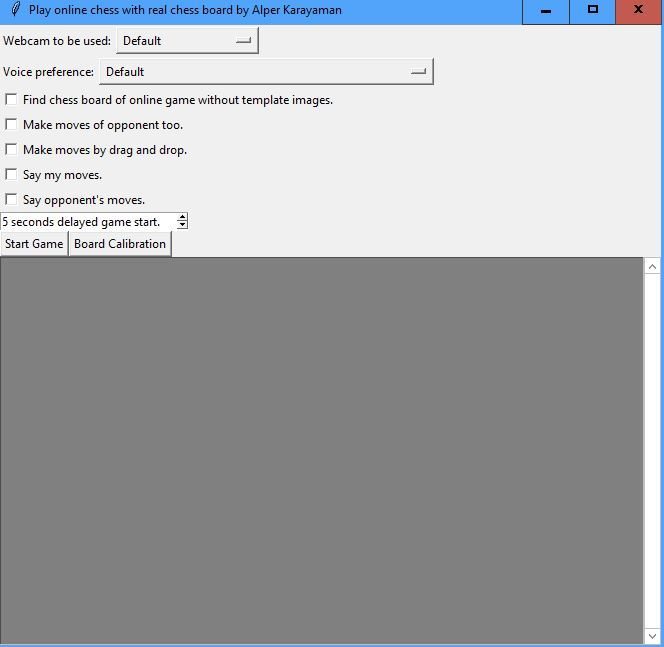
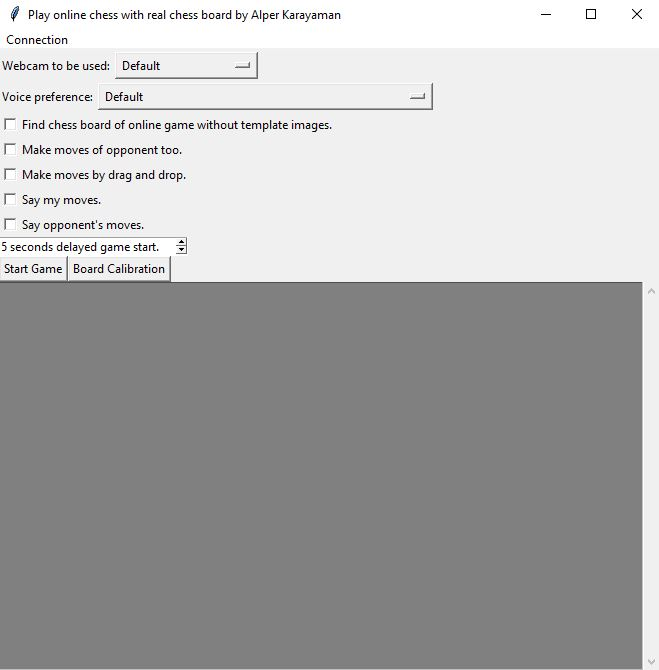
Lichess API support.

Changed region(s): [[0.0, 0.0, 1.0, 1.0]]

diff --git a/game.py b/game.py
@@ -1,14 +1,31 @@
+import sys
 import time
 
 import chess
+import berserk
 from internet_game import Internet_game
+from lichess_game import Lichess_game
 from commentator import Commentator_thread
+from lichess_commentator import Lichess_commentator
 
 
 class Game:
     def __init__(self, board_basics, speech_thread, use_template, make_opponent, start_delay, comment_me,
-                 comment_opponent, drag_drop, language):
-        self.internet_game = Internet_game(use_template, start_delay, drag_drop)
+                 comment_opponent, drag_drop, language, token):
+        if token:
+            session = berserk.TokenSession(token)
+            client = berserk.Client(session)
+            games = client.games.get_ongoing()
+            if len(games) == 0:
+                print("No games found. Please create your game on Lichess.")
+                sys.exit(0)
+            if len(games) > 1:
+                print("Multiple games found. Please make sure there is only one ongoing game on Lichess.")
+                sys.exit(0)
+            game = games[0]
+            self.internet_game = Lichess_game(client, game)
+        else:
+            self.internet_game = Internet_game(use_template, start_delay, drag_drop)
         self.make_opponent = make_opponent
         self.board_basics = board_basics
         self.speech_thread = speech_thread
@@ -19,16 +36,27 @@ class Game:
         self.comment_opponent = comment_opponent
         self.language = language
 
-        commentator_thread = Commentator_thread()
-        commentator_thread.daemon = True
-        commentator_thread.speech_thread = self.speech_thread
-        commentator_thread.game_state.game_thread = self
-        commentator_thread.game_state.we_play_white = self.internet_game.we_play_white
-        commentator_thread.game_state.board_position_on_screen = self.internet_game.position
-        commentator_thread.comment_me = self.comment_me
-        commentator_thread.comment_opponent = self.comment_opponent
-        commentator_thread.language = self.language
-        self.commentator = commentator_thread
+        if token:
+            commentator_thread = Lichess_commentator()
+            commentator_thread.daemon = True
+            commentator_thread.stream = client.board.stream_game_state(game['gameId'])
+            commentator_thread.speech_thread = self.speech_thread
+            commentator_thread.comment_me = self.comment_me
+            commentator_thread.comment_opponent = self.comment_opponent
+            commentator_thread.language = self.language
+            self.commentator = commentator_thread
+        else:
+            commentator_thread = Commentator_thread()
+            commentator_thread.daemon = True
+            commentator_thread.speech_thread = self.speech_thread
+            commentator_thread.game_state.game_thread = self
+            commentator_thread.game_state.we_play_white = self.internet_game.we_play_white
+            commentator_thread.game_state.board_position_on_screen = self.internet_game.position
+            commentator_thread.comment_me = self.comment_me
+            commentator_thread.comment_opponent = self.comment_opponent
+            commentator_thread.language = self.language
+            self.commentator = commentator_thread
+
 
     def get_move_to_register(self):
         if self.commentator:
@@ -107,7 +135,7 @@ class Game:
                 promoted_move = chess.Move.from_uci(uci_move_promoted)
                 if promoted_move in self.board.legal_moves:
                     valid_move_string = uci_move_promoted
-                    #print("There has been a promotion")
+                    # print("There has been a promotion")
 
         potential_squares = [square[1] for square in potential_squares]
         print(potential_squares)

diff --git a/lichess_commentator.py b/lichess_commentator.py
@@ -1,0 +1,50 @@
+from threading import Thread
+import chess
+
+
+class Lichess_commentator(Thread):
+
+    def __init__(self, *args, **kwargs):
+        super(Lichess_commentator, self).__init__(*args, **kwargs)
+        self.stream = None
+        self.speech_thread = None
+        self.game_state = Game_state()
+        self.comment_me = None
+        self.comment_opponent = None
+        self.language = None
+
+    def run(self):
+        while not self.game_state.board.is_game_over():
+            is_my_turn = (self.game_state.we_play_white) == (self.game_state.board.turn == chess.WHITE)
+            found_move, move = self.game_state.register_move_if_needed(self.stream)
+            if found_move and ((self.comment_me and is_my_turn) or (self.comment_opponent and (not is_my_turn))):
+                self.speech_thread.put_text(self.language.comment(self.game_state.board, move))
+
+
+class Game_state:
+
+    def __init__(self):
+        self.we_play_white = None
+        self.board = chess.Board()
+        self.registered_moves = []
+
+    def register_move_if_needed(self, stream):
+        current_state = next(stream)
+        #print(current_state)
+        if 'state' in current_state:
+            current_state = current_state['state']
+        moves = current_state['moves'].split()
+        if len(moves) > len(self.registered_moves):
+            valid_move_string = moves[len(self.registered_moves)]
+            valid_move_UCI = chess.Move.from_uci(valid_move_string)
+            self.register_move(valid_move_UCI)
+            return True, valid_move_UCI
+        return False, "No move found"
+
+    def register_move(self, move):
+        if move in self.board.legal_moves:
+            self.board.push(move)
+            self.registered_moves.append(move)
+            return True
+        else:
+            return False

diff --git a/gui.py b/gui.py
@@ -1,9 +1,22 @@
 import tkinter as tk
+from tkinter.simpledialog import askstring
 import subprocess
 import sys
 from threading import Thread
 
 running_process = None
+
+token = ""
+
+
+def lichess():
+    global token
+    new_token = askstring("Lichess API Access Token", "Please enter your Lichess API Access Token below.",
+                          initialvalue=token)
+    if new_token is None:
+        pass
+    else:
+        token = new_token
 
 
 def on_closing():
@@ -72,6 +85,9 @@ def start_game(ignore=None):
         arguments.append("comment-opponent")
     if drag_drop.get():
         arguments.append("drag")
+    global token
+    if token:
+        arguments.append("token=" + token)
     arguments.append("delay=" + str(values.index(default_value.get())))
 
     selected_camera = camera.get()
@@ -103,6 +119,15 @@ def start_game(ignore=None):
 
 window = tk.Tk()
 window.title("Play online chess with real chess board by Alper Karayaman")
+
+menu_bar = tk.Menu(window)
+connection = tk.Menu(menu_bar, tearoff=False)
+connection.add_command(label="Lichess", command=lichess)
+
+menu_bar.add_cascade(label="Connection", menu=connection)
+
+window.config(menu=menu_bar)
+
 no_template = tk.IntVar()
 make_opponent = tk.IntVar()
 drag_drop = tk.IntVar()

diff --git a/main.py b/main.py
@@ -23,6 +23,7 @@ cap_index = 0
 cap_api = cv2.CAP_ANY
 voice_index = 0
 language = English()
+token = ""
 for argument in sys.argv:
     if argument == "no-template":
         use_template = False
@@ -54,6 +55,8 @@ for argument in sys.argv:
             language = Russian()
         elif "Turkish" in argument:
             language = Turkish()
+    elif argument.startswith("token="):
+        token = argument[len("token="):].strip()
 MOTION_START_THRESHOLD = 1.0
 HISTORY = 100
 MAX_MOVE_MEAN = 50
@@ -75,7 +78,7 @@ speech_thread.index = voice_index
 speech_thread.start()
 
 game = Game(board_basics, speech_thread, use_template, make_opponent, start_delay, comment_me, comment_opponent,
-            drag_drop, language)
+            drag_drop, language, token)
 
 video_capture_thread = Video_capture_thread()
 video_capture_thread.daemon = True

diff --git a/lichess_game.py b/lichess_game.py
@@ -1,0 +1,11 @@
+class Lichess_game:
+    def __init__(self, client, game):
+        self.we_play_white = game['color'] == 'white'
+        self.is_our_turn = self.we_play_white
+        self.client = client
+        self.game_id = game['gameId']
+
+    def move(self, move):
+        move_string = move.uci()
+        self.client.board.make_move(self.game_id, move_string)
+        print("Done playing move " + move_string)

diff --git a/README.md b/README.md
@@ -3,11 +3,11 @@ Program that enables you to play online chess using real chess board.  Using com
 
 ## Setup
 
-1. Turn off all the animations and extra features to keep chess board of online game as simple as possible.
+1. Turn off all the animations and extra features to keep chess board of online game as simple as possible. You can skip this step if you enter your Lichess API Access Token. 
 
-2. Take screenshots of chess board of online game at starting position, one for when you play white and one for when you play black and save them as "white.JPG" and "black.JPG" similar to the images included in the source code. You can skip this step if you enable "Find chess board of online game without template images." option in the GUI.
+2. Take screenshots of chess board of online game at starting position, one for when you play white and one for when you play black and save them as "white.JPG" and "black.JPG" similar to the images included in the source code. You can skip this step if you enable "Find chess board of online game without template images." option or enter your Lichess API Access Token.
 
-3. Enable auto promotion to queen from settings of online game.
+3. Enable auto promotion to queen from settings of online game. You can skip this step if you enter your Lichess API Access Token.
 
 4. Place your webcam near to your chessboard so that all of the squares and pieces can be clearly seen by it.
 
@@ -26,7 +26,7 @@ Program that enables you to play online chess using real chess board.  Using com
 1. Place pieces of chess board to their starting position.
 2. Start the online game.
 3. Run "main.py"(Alternatively, click "Start Game" button in the GUI).
-4. Switch to the online game so that program detects chess board of online game. You have 5 seconds to do this step.
+4. Switch to the online game so that program detects chess board of online game. You have 5 seconds to do this step. You can skip this step if you enter your Lichess API Access Token.
 5.  Wait until program says "game started".
 6. Make your move if it's your turn , otherwise make opponent's move.
 8. Notice that program actually makes your move on the internet game if it's your turn. Otherwise, wait until program says starting and ending squares of opponent's move. 
@@ -34,7 +34,7 @@ Program that enables you to play online chess using real chess board.  Using com
 
 ## GUI
 
-You can run "gui.py" to open the GUI. You can use it to do the steps in Setup and Usage sections and customize how you use the software. You can click "Start Game" button instead of running "main.py" and "Board Calibration" button instead of running "board_calibration.py".
+You can run "gui.py" to open the GUI. You can use it to do the steps in Setup and Usage sections and customize how you use the software. You can click "Start Game" button instead of running "main.py" and "Board Calibration" button instead of running "board_calibration.py". Also, you can enter your Lichess API Access Token via Connection&#8594;Lichess.
 
 ![](https://github.com/karayaman/Play-online-chess-with-real-chess-board/blob/main/gui.JPG?raw=true)
 
@@ -92,3 +92,4 @@ It should detect corners of the chess board almost immediately. Please do not sp
 - scikit-image
 - pygrabber
 - mac-say
+- berserk
